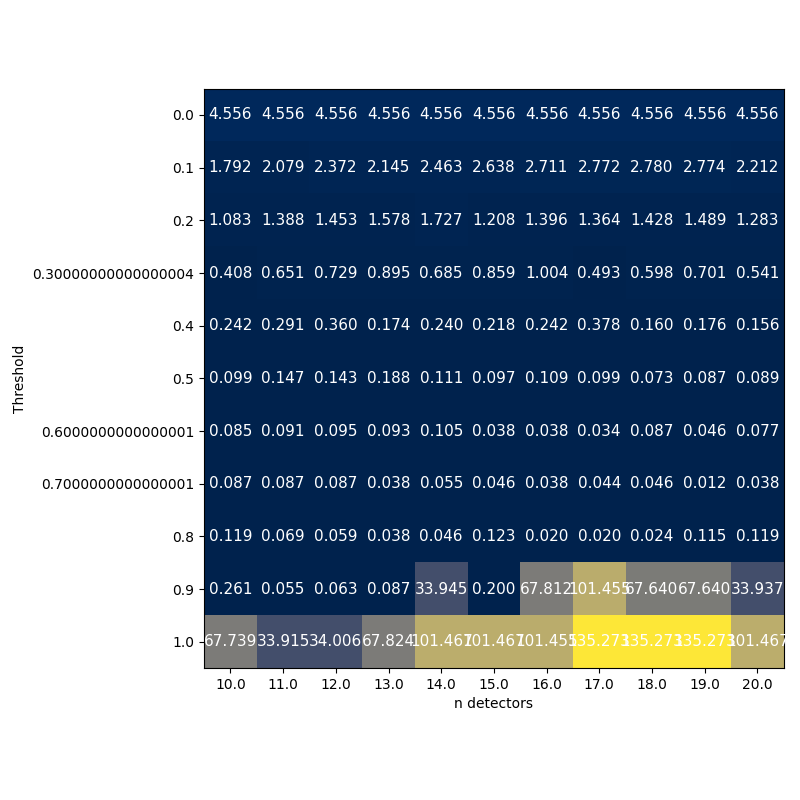
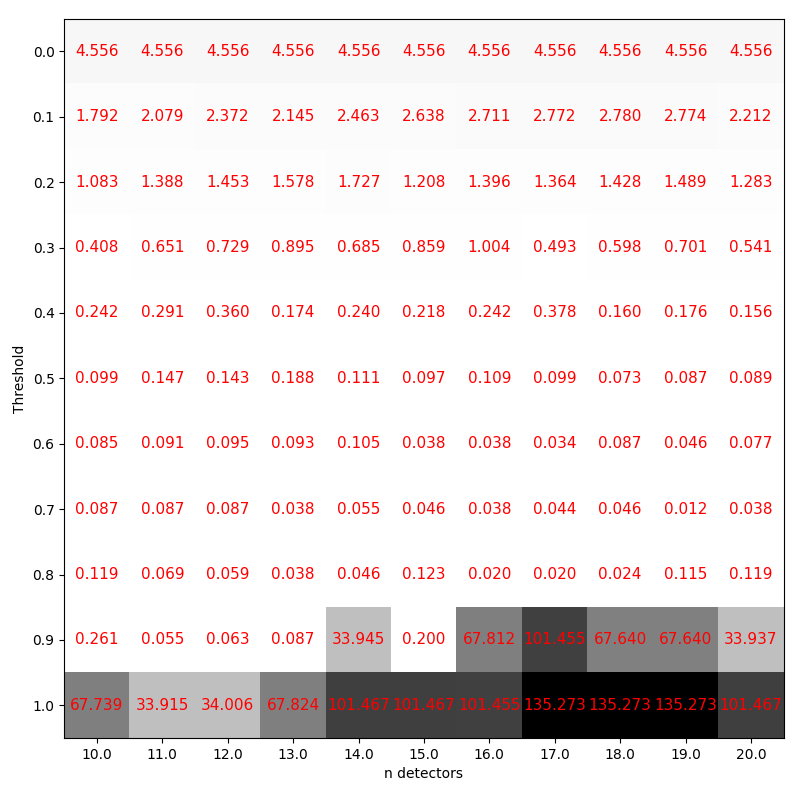
.

diff --git a/exp_1_plot.py b/exp_1_plot.py
@@ -63,10 +63,10 @@ plt.close()
 
 fig, ax = plt.subplots(1, 1, figsize=(8, 8))
 
-ax.imshow(res_arr_mean, cmap='cividis')
+ax.imshow(res_arr_mean, cmap='binary', origin='upper')
 
 ax.set_yticks(list(range(len(th_arr))))
-ax.set_yticklabels(th_arr)
+ax.set_yticklabels(['%.1f' % v for v in th_arr])
 ax.set_ylabel("Threshold")
 
 ax.set_xticks(list(range(len(det_arr))))
@@ -76,7 +76,7 @@ ax.set_xlabel("n detectors")
 for _a, __a in enumerate(th_arr):
     for _b, __b in enumerate(det_arr):
         ax.text(_b, _a, "%.3f" % (
-            res_arr_mean[_a, _b]) , va='center', ha='center', c='white', fontsize=11)
+            res_arr_mean[_a, _b]) , va='center', ha='center', c='red', fontsize=11)
             
 
 plt.tight_layout()
